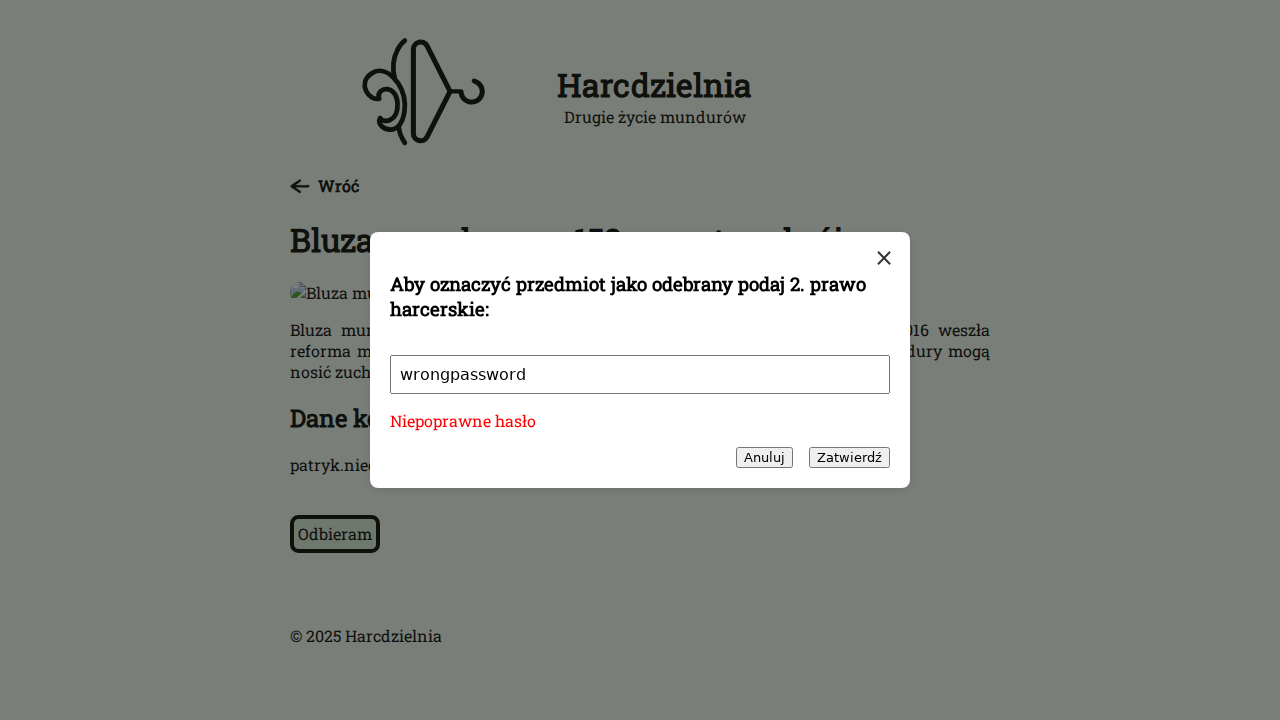
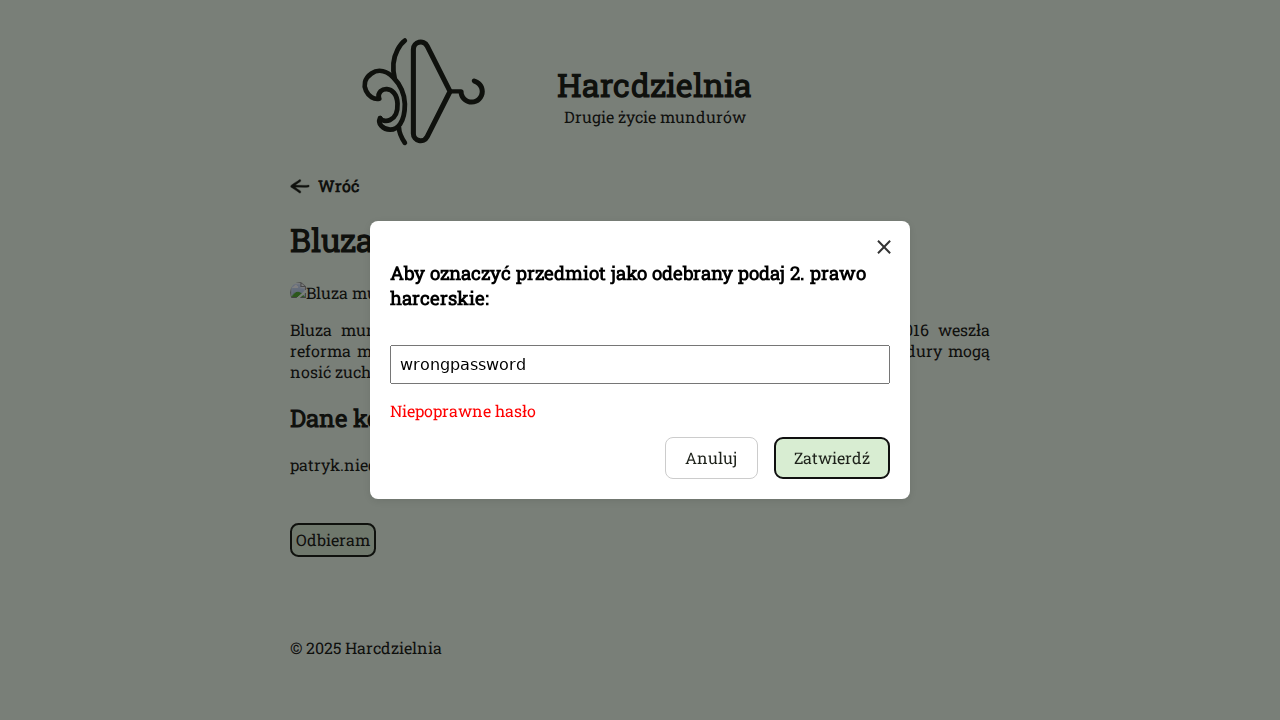
Add pickup item feature
- Added Modal component with generic styling
- Added removeItem action to itemsSlice
- Added "Odbieram" button to ItemDetail page with improved click target and styling
- Implemented password protection for pickup
- Implemented success/error flow and navigation

diff --git a/src/pages/ItemDetail.tsx b/src/pages/ItemDetail.tsx
@@ -75,22 +75,25 @@ const ItemDetail: React.FC = () => {
       <h2>Dane kontaktowe:</h2>
       <p>{item.contact}</p>
 
-      <div className="add-item-button" style={{ display: 'inline-block', cursor: 'pointer' }}>
-        <button
-          onClick={() => setIsModalOpen(true)}
-          style={{
-            background: 'none',
-            border: 'none',
-            padding: 0,
-            margin: 0,
-            fontSize: 'inherit',
-            fontFamily: 'inherit',
-            cursor: 'pointer',
-            color: 'inherit',
-          }}
-        >
-          Odbieram
-        </button>
+      <div
+        className="add-item-button"
+        role="button"
+        tabIndex={0}
+        onClick={() => setIsModalOpen(true)}
+        onKeyDown={(e) => {
+          if (e.key === 'Enter' || e.key === ' ') {
+            setIsModalOpen(true);
+          }
+        }}
+        style={{
+          display: 'inline-block',
+          cursor: 'pointer',
+          borderWidth: '2px',
+          marginTop: '2em',
+          marginBottom: '2em',
+        }}
+      >
+        Odbieram
       </div>
 
       <Modal isOpen={isModalOpen} onClose={handleClose}>
@@ -98,7 +101,9 @@ const ItemDetail: React.FC = () => {
           <div style={{ textAlign: 'center' }}>
             <h2>Sukces!</h2>
             <p>Przedmiot został oznaczony jako odebrany.</p>
-            <button onClick={handleClose}>Zamknij</button>
+            <button className="modal-btn modal-btn-secondary" onClick={handleClose}>
+              Zamknij
+            </button>
           </div>
         ) : (
           <div style={{ display: 'flex', flexDirection: 'column', gap: '1em' }}>
@@ -117,8 +122,12 @@ const ItemDetail: React.FC = () => {
               <p style={{ color: 'red', margin: 0 }}>Niepoprawne hasło</p>
             )}
             <div style={{ display: 'flex', justifyContent: 'flex-end', gap: '1em' }}>
-              <button onClick={handleClose}>Anuluj</button>
-              <button onClick={handleConfirm}>Zatwierdź</button>
+              <button className="modal-btn modal-btn-secondary" onClick={handleClose}>
+                Anuluj
+              </button>
+              <button className="modal-btn modal-btn-primary" onClick={handleConfirm}>
+                Zatwierdź
+              </button>
             </div>
           </div>
         )}

diff --git a/src/components/Modal.css b/src/components/Modal.css
@@ -32,3 +32,41 @@
   cursor: pointer;
   color: #333;
 }
+
+.modal-btn {
+  padding: 0.6em 1.2em;
+  font-size: 1em;
+  font-weight: 500;
+  border-radius: 8px;
+  border: 1px solid transparent;
+  cursor: pointer;
+  transition: border-color 0.25s, background-color 0.25s;
+  font-family: inherit;
+}
+
+.modal-btn:focus,
+.modal-btn:focus-visible {
+  outline: 4px auto -webkit-focus-ring-color;
+}
+
+.modal-btn-primary {
+  background-color: var(--tre, #def1d9);
+  color: var(--fg, #1e221b);
+  border: 1px solid var(--fg, #1e221b);
+}
+
+.modal-btn-primary:hover {
+  background-color: var(--sec, #c9e4c2);
+  border-color: #646cff;
+}
+
+.modal-btn-secondary {
+  background-color: transparent;
+  color: var(--fg, #1e221b);
+  border: 1px solid #ccc;
+}
+
+.modal-btn-secondary:hover {
+  border-color: #646cff;
+  background-color: #f0f0f0;
+}

diff --git a/verification/verify_styles.py b/verification/verify_styles.py
@@ -1,0 +1,50 @@
+import sys
+from playwright.sync_api import sync_playwright
+
+def run(playwright):
+    browser = playwright.chromium.launch(headless=True)
+    page = browser.new_page()
+    page.goto("http://localhost:5173")
+
+    # Wait for items to load
+    try:
+        page.wait_for_selector(".container .item-card", timeout=15000)
+    except Exception as e:
+        print(f"Timeout waiting for items: {e}")
+        sys.exit(1)
+
+    # Click on the first item
+    page.click(".container .item-card:first-child a")
+
+    # Verify ItemDetail page loaded
+    page.wait_for_selector(".item-detail")
+
+    # Check "Odbieram" button visibility and capture it
+    button_container = page.locator(".add-item-button").last
+    if not button_container.is_visible():
+        print("Odbieram button container not found")
+        sys.exit(1)
+
+    # Scroll to bottom
+    page.evaluate("window.scrollTo(0, document.body.scrollHeight)")
+
+    # Take screenshot of the ItemDetail page to see the button style
+    page.screenshot(path="verification/style_check_item.png")
+
+    # Click "Odbieram"
+    button_container.click()
+
+    # Verify Modal is open
+    modal = page.locator(".modal-content")
+    if not modal.is_visible():
+        print("Modal not visible")
+        sys.exit(1)
+
+    # Take screenshot of the Modal to see the button styles
+    page.screenshot(path="verification/style_check_modal.png")
+
+    print("Verification screenshots saved to verification/style_check_item.png and verification/style_check_modal.png")
+    browser.close()
+
+with sync_playwright() as playwright:
+    run(playwright)
